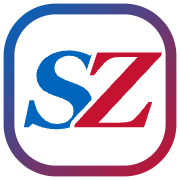
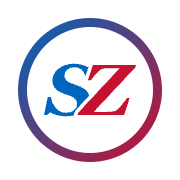
SZ monogram: round, one ring from TUM blue to CMU red
The same interlocking S/Z ligature (S in TUM blue, Z in CMU red), now in
a single round ring with the blue-to-red gradient, glyphs a little
larger. Light and dark marks plus the 180px touch icon.

diff --git a/assets/css/custom.css b/assets/css/custom.css
@@ -288,8 +288,8 @@ html[data-theme="dark"] #navbar.navbar::before {
 #navbar .navbar-brand.title .font-weight-bold {
   font-weight: inherit !important;
 }
-/* The SZ monogram (assets/img/sz-mark.svg): a seal-like rounded frame with
-   an S and a red Z, the same mark as the favicon. */
+/* The SZ monogram (assets/img/sz-mark.svg): a blue S and a red Z inside a
+   round ring running from TUM blue to CMU red, the same mark as the favicon. */
 #navbar .navbar-brand.title::before {
   content: "";
   flex: 0 0 auto;
